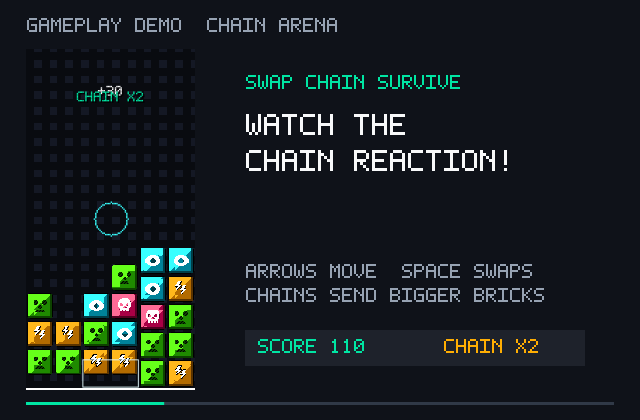
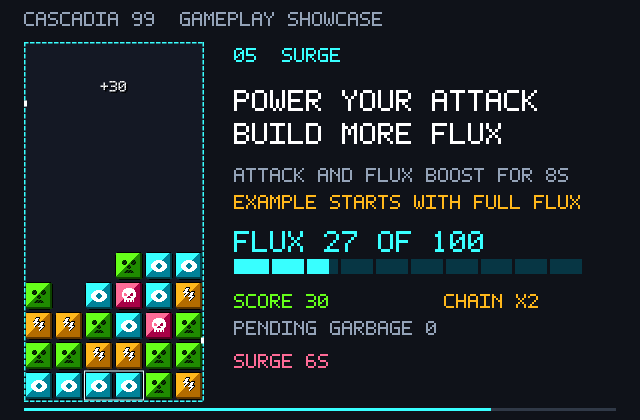
Expand homepage showcase with Flux and every Phase 1 ability

diff --git a/index.html b/index.html
@@ -4,7 +4,7 @@
 <header><a class="brand" href="/" aria-label="Cascadia 99 home"><svg xmlns="http://www.w3.org/2000/svg" viewBox="0 0 59 7" class="pixel-wordmark" aria-hidden="true" shape-rendering="crispEdges"><path fill="currentColor" d="M1 0h1v1h-1zM2 0h1v1h-1zM3 0h1v1h-1zM4 0h1v1h-1zM0 1h1v1h-1zM1 1h1v1h-1zM0 2h1v1h-1zM1 2h1v1h-1zM0 3h1v1h-1zM1 3h1v1h-1zM0 4h1v1h-1zM1 4h1v1h-1zM0 5h1v1h-1zM1 5h1v1h-1zM1 6h1v1h-1zM2 6h1v1h-1zM3 6h1v1h-1zM4 6h1v1h-1zM7 0h1v1h-1zM8 0h1v1h-1zM9 0h1v1h-1zM6 1h1v1h-1zM7 1h1v1h-1zM9 1h1v1h-1zM10 1h1v1h-1zM6 2h1v1h-1zM7 2h1v1h-1zM9 2h1v1h-1zM10 2h1v1h-1zM6 3h1v1h-1zM7 3h1v1h-1zM8 3h1v1h-1zM9 3h1v1h-1zM10 3h1v1h-1zM6 4h1v1h-1zM7 4h1v1h-1zM9 4h1v1h-1zM10 4h1v1h-1zM6 5h1v1h-1zM7 5h1v1h-1zM9 5h1v1h-1zM10 5h1v1h-1zM6 6h1v1h-1zM7 6h1v1h-1zM9 6h1v1h-1zM10 6h1v1h-1zM13 0h1v1h-1zM14 0h1v1h-1zM15 0h1v1h-1zM16 0h1v1h-1zM12 1h1v1h-1zM13 1h1v1h-1zM12 2h1v1h-1zM13 2h1v1h-1zM13 3h1v1h-1zM14 3h1v1h-1zM15 3h1v1h-1zM15 4h1v1h-1zM16 4h1v1h-1zM15 5h1v1h-1zM16 5h1v1h-1zM12 6h1v1h-1zM13 6h1v1h-1zM14 6h1v1h-1zM15 6h1v1h-1zM19 0h1v1h-1zM20 0h1v1h-1zM21 0h1v1h-1zM22 0h1v1h-1zM18 1h1v1h-1zM19 1h1v1h-1zM18 2h1v1h-1zM19 2h1v1h-1zM18 3h1v1h-1zM19 3h1v1h-1zM18 4h1v1h-1zM19 4h1v1h-1zM18 5h1v1h-1zM19 5h1v1h-1zM19 6h1v1h-1zM20 6h1v1h-1zM21 6h1v1h-1zM22 6h1v1h-1zM25 0h1v1h-1zM26 0h1v1h-1zM27 0h1v1h-1zM24 1h1v1h-1zM25 1h1v1h-1zM27 1h1v1h-1zM28 1h1v1h-1zM24 2h1v1h-1zM25 2h1v1h-1zM27 2h1v1h-1zM28 2h1v1h-1zM24 3h1v1h-1zM25 3h1v1h-1zM26 3h1v1h-1zM27 3h1v1h-1zM28 3h1v1h-1zM24 4h1v1h-1zM25 4h1v1h-1zM27 4h1v1h-1zM28 4h1v1h-1zM24 5h1v1h-1zM25 5h1v1h-1zM27 5h1v1h-1zM28 5h1v1h-1zM24 6h1v1h-1zM25 6h1v1h-1zM27 6h1v1h-1zM28 6h1v1h-1zM30 0h1v1h-1zM31 0h1v1h-1zM32 0h1v1h-1zM33 0h1v1h-1zM30 1h1v1h-1zM31 1h1v1h-1zM33 1h1v1h-1zM34 1h1v1h-1zM30 2h1v1h-1zM31 2h1v1h-1zM33 2h1v1h-1zM34 2h1v1h-1zM30 3h1v1h-1zM31 3h1v1h-1zM33 3h1v1h-1zM34 3h1v1h-1zM30 4h1v1h-1zM31 4h1v1h-1zM33 4h1v1h-1zM34 4h1v1h-1zM30 5h1v1h-1zM31 5h1v1h-1zM33 5h1v1h-1zM34 5h1v1h-1zM30 6h1v1h-1zM31 6h1v1h-1zM32 6h1v1h-1zM33 6h1v1h-1zM36 0h1v1h-1zM37 0h1v1h-1zM38 0h1v1h-1zM37 1h1v1h-1zM37 2h1v1h-1zM37 3h1v1h-1zM37 4h1v1h-1zM37 5h1v1h-1zM36 6h1v1h-1zM37 6h1v1h-1zM38 6h1v1h-1zM41 0h1v1h-1zM42 0h1v1h-1zM43 0h1v1h-1zM40 1h1v1h-1zM41 1h1v1h-1zM43 1h1v1h-1zM44 1h1v1h-1zM40 2h1v1h-1zM41 2h1v1h-1zM43 2h1v1h-1zM44 2h1v1h-1zM40 3h1v1h-1zM41 3h1v1h-1zM42 3h1v1h-1zM43 3h1v1h-1zM44 3h1v1h-1zM40 4h1v1h-1zM41 4h1v1h-1zM43 4h1v1h-1zM44 4h1v1h-1zM40 5h1v1h-1zM41 5h1v1h-1zM43 5h1v1h-1zM44 5h1v1h-1zM40 6h1v1h-1zM41 6h1v1h-1zM43 6h1v1h-1zM44 6h1v1h-1z"/><path class="logo-accent" fill="#c9ef70" d="M49 0h1v1h-1zM50 0h1v1h-1zM51 0h1v1h-1zM48 1h1v1h-1zM49 1h1v1h-1zM51 1h1v1h-1zM52 1h1v1h-1zM48 2h1v1h-1zM49 2h1v1h-1zM51 2h1v1h-1zM52 2h1v1h-1zM49 3h1v1h-1zM50 3h1v1h-1zM51 3h1v1h-1zM52 3h1v1h-1zM51 4h1v1h-1zM52 4h1v1h-1zM51 5h1v1h-1zM52 5h1v1h-1zM48 6h1v1h-1zM49 6h1v1h-1zM50 6h1v1h-1zM51 6h1v1h-1zM55 0h1v1h-1zM56 0h1v1h-1zM57 0h1v1h-1zM54 1h1v1h-1zM55 1h1v1h-1zM57 1h1v1h-1zM58 1h1v1h-1zM54 2h1v1h-1zM55 2h1v1h-1zM57 2h1v1h-1zM58 2h1v1h-1zM55 3h1v1h-1zM56 3h1v1h-1zM57 3h1v1h-1zM58 3h1v1h-1zM57 4h1v1h-1zM58 4h1v1h-1zM57 5h1v1h-1zM58 5h1v1h-1zM54 6h1v1h-1zM55 6h1v1h-1zM56 6h1v1h-1zM57 6h1v1h-1z"/></svg></a><div class="header-right"><button id="server-settings" class="quiet" hidden>Game server</button><span id="connection" class="connection">Connecting…</span><button id="sound" class="quiet" aria-pressed="true">Sound on</button><button id="music" class="quiet" aria-pressed="true">Music on</button><button id="theme" class="quiet" aria-label="Switch to light mode" aria-pressed="false">☀ Light</button><button id="help" class="quiet">How to play</button></div></header><div class="customization-bar" aria-label="Game appearance and soundtrack"><div><label for="palette">PALETTE</label><select id="palette" aria-label="Color palette"></select></div><div><label for="track">SOUNDTRACK</label><select id="track" aria-label="Music track"></select></div></div>
 <main>
 <section id="entry" class="entry">
-<div class="intro"><div class="eyebrow">MULTIPLAYER / CHAIN REACTION ARENA</div><h1>SWAP. CHAIN.<br><em>OUTLAST EVERYONE.</em></h1><p>Match panels. Send garbage. Be the last board standing.<br>Battle CPUs solo or invite friends with a room code.</p><figure class="gameplay-demo"><picture><source media="(prefers-reduced-motion: reduce)" srcset="/demo/gameplay.png?v=9"><img src="/demo/gameplay.gif?v=9" alt="Gameplay demo: a panel swap creates a chain, then an incoming garbage brick breaks into panels." width="640" height="420" decoding="async"></picture><figcaption>REAL GAMEPLAY <span>Swap → chain → comeback</span></figcaption></figure><button id="preview-music" class="quiet music-preview" aria-pressed="false">♫ Hear the soundtrack</button><div class="intro-foot"><span>01 / SWAP</span><span>02 / CHAIN</span><span>03 / SURVIVE</span></div></div>
+<div class="intro"><div class="eyebrow">MULTIPLAYER / CHAIN REACTION ARENA</div><h1>SWAP. CHAIN.<br><em>OUTLAST EVERYONE.</em></h1><p>Match panels. Send garbage. Be the last board standing.<br>Battle CPUs solo or invite friends with a room code.</p><figure class="gameplay-demo"><picture><source media="(prefers-reduced-motion: reduce)" srcset="/demo/gameplay.png?v=10"><img id="homepage-demo" src="/demo/gameplay.gif?v=10" alt="Gameplay showcase: chains charge Flux, garbage breaks into panels, and Pulse, Shift, Surge, and Overdrive activate with live resource counters." width="640" height="420" decoding="async"></picture><figcaption>GAMEPLAY <span>Chains · Flux · abilities</span><button id="demo-pause" class="quiet" type="button" aria-pressed="false">Pause</button></figcaption></figure><button id="preview-music" class="quiet music-preview" aria-pressed="false">♫ Hear the soundtrack</button><div class="intro-foot"><span>01 / SWAP</span><span>02 / CHAIN</span><span>03 / SURVIVE</span></div></div>
 <div class="entry-card"><div class="eyebrow">PLAYER SELECT</div><h2>READY, PLAYER?</h2><div class="entry-name"><label for="name">Display name</label><input id="name" maxlength="18" placeholder="Enter your name" autocomplete="nickname"></div><div class="match-options"><div><label for="quick-mode">Match mode</label><select id="quick-mode"><option value="battle">Battle Royale · up to 99</option><option value="duel">2P VS · Duel</option><option value="quad">4P VS · Free-for-all</option><option value="teams">2v2 · Teams</option></select></div><div><label for="quick-rules">Rules</label><select id="quick-rules"><option value="classic">Classic · steady</option><option value="rush">Rush · +60%</option></select></div></div><div class="cpu-quick-settings"><div><label for="quick-count">CPU opponents</label><select id="quick-count"><option value="1">1 CPU · Duel</option><option value="9" selected>9 CPUs · Skirmish</option><option value="24">24 CPUs · Battle</option><option value="98">98 CPUs · Full field</option></select></div><div><label for="quick-difficulty">Difficulty</label><select id="quick-difficulty"><option value="easy">Easy</option><option value="normal" selected>Normal</option><option value="hard">Hard</option></select></div></div><div class="entry-actions"><button id="play-cpu" class="primary">Play CPUs <span>▶</span></button><button id="create" class="secondary create-room">Create room <span>↗</span></button></div><div class="divider"><span>or join your friends</span></div><form id="join-form"><label for="code">Room code</label><div class="join-row"><input id="code" minlength="6" maxlength="6" placeholder="A1B2C3" autocapitalize="characters" autocomplete="off" required pattern="[A-Za-z0-9]{6}"><button class="secondary" type="submit">Join →</button></div></form><p class="card-note" id="mode-note">No accounts. Play CPUs solo or invite your friends.</p><div class="personal-records" aria-label="Your personal records"><span>BEST <b id="record-score">0</b></span><span>CHAIN <b id="record-chain">0×</b></span><span>WINS <b id="record-wins">0</b></span></div><p id="entry-error" class="error" role="alert"></p></div>
 </section>
 <section id="lobby" hidden><div class="lobby-head"><div><div class="eyebrow">THE ROOM IS OPEN</div><h1>Gather your rivals.</h1><p>Share this code. Everyone joins from this same game address.</p></div><button id="leave-lobby" class="quiet">Leave room ↗</button></div><div class="lobby-layout"><div class="room-card"><div class="eyebrow">ROOM CODE</div><button id="copy-code" title="Copy room code"><span id="room-code"></span><small id="copy-label">Click to copy</small></button><div id="room-settings" class="room-settings"><label for="room-mode">Match mode</label><select id="room-mode"><option value="battle">Battle Royale · up to 99</option><option value="duel">2P VS · Duel</option><option value="quad">4P VS · Free-for-all</option><option value="teams">2v2 · Teams</option></select><label for="room-rules">Rules</label><select id="room-rules"><option value="classic">Classic · steady</option><option value="rush">Rush · +60%</option></select><button id="apply-settings" class="secondary">Update mode &amp; rules</button></div><div id="bot-settings" class="bot-settings"><div class="cpu-quick-settings"><div><label for="bot-count">CPU opponents</label><input id="bot-count" type="number" min="0" max="98" value="0"></div><div><label for="bot-difficulty">Difficulty</label><select id="bot-difficulty"><option value="easy">Easy</option><option value="normal" selected>Normal</option><option value="hard">Hard</option></select></div></div><button id="apply-bots" class="secondary">Update CPUs</button></div><button id="start" class="primary">Start battle →</button><p id="lobby-note"></p><div id="share-address" class="share-address"></div></div><div class="players-card"><div class="section-title"><h2>In the lobby</h2><span id="lobby-count">0 / 99</span></div><div id="players-list"></div><p id="lobby-error" class="error" role="alert"></p></div></div></section>

diff --git a/style.css b/style.css
@@ -256,3 +256,6 @@ body[data-flashing="reduced"] #flux-fill{animation:none}
 .tutorial-gallery button{justify-self:start}.tutorial-gallery p{font-size:14px;line-height:1.5;margin:0}
 
 dialog::backdrop{backdrop-filter:none;background:#000c}
+
+.gameplay-demo #demo-pause{width:auto;padding:0 6px;min-height:20px;font-size:14px;line-height:18px;flex-shrink:0}
+.gameplay-demo figcaption{align-items:center}

diff --git a/PROJECT_STATUS.md b/PROJECT_STATUS.md
@@ -2,6 +2,13 @@
 
 Updated 2026-10-06. This document records the current implementation and work completed during the development conversation. The working browser game remains available, and development has now started on a native Godot 4 client. Package version is 0.3.0; it is a development snapshot, not a published release.
 
+## Expanded homepage showcase (2026-10-06)
+
+- Replaced the short homepage loop with a **33-second, 825-frame, 25 FPS** showcase: Flux-earning chains, slab breaks/conversion, Pulse, Shift, Surge, and Overdrive. Added a larger board, live segmented Flux gauge, score/chain/pending counters, ability costs, full-charge hold and buff timers.
+- Footage uses the same authoritative engine examples as native How to Play; the higher capture rate does not change simulation or balance. Ability chapters clearly label their full-Flux starting examples. Godot retains these same six mechanics in its existing tutorial viewer; it has a native title menu rather than a website homepage.
+- Added homepage pause/play and matching stills for reduced motion or reduced flashing, refreshed asset URLs/alt text, and reproducible `npm run demo:render`. The GIF remains 640×420 (~2.4MB), preserving the responsive homepage layout. `demo/showcase.json` records its chapters and timing.
+- Verification: **76 JavaScript tests passed**, including gameplay coverage/capture-rate parity/assets; browser responsive playback/pause/reduced-effects and native/web tutorial checks passed. No gameplay, authority, audio, or Godot rules changed.
+
 ## How to Play — animated tutorials (2026-10-06)
 
 - Added ten selectable demonstrations to both web Help and native How to Play: 2P, 4P, 2v2, 99-seat CPU Battle Royale, swaps/chains, garbage fracture/conversion, Pulse, Shift, Surge, and Overdrive.
@@ -58,7 +65,7 @@ Updated 2026-10-06. This document records the current implementation and work co
 - Current four tiles: Skull, Cyber-Eye, Radiation, and Twin Bolts. Generation and garbage releases use only these four types. Hard palette steps, pixel glyphs, 14% stepped corners, black frames, and exact 25%/50%/75% Bayer coverage replace smooth surface gradients and neon blending.
 - Added rigid falling garbage slabs spanning 3–6 columns and 1–3 rows, recessed column notches, cast-iron dither bands, chunky hazard stripes, and a two-frame CPU core glow. Adjacent clears trigger a dither sweep and bottom-to-top conversion into regular tiles. Slabs fall as connected units.
 - Added swap/fall/drop animations, match flashes, outward particles, attack projectiles, impact shake, combo/chain badges, and localized upper-board danger warnings. Reduced-motion settings suppress/freeze motion and flashes.
-- Regenerated the homepage gameplay demo from the actual engine/renderer: 400 frames, 50 FPS, eight seconds, 256-color palette without extra encoding dithering. It demonstrates a chain and slab conversion. A matching still serves reduced-motion users. Only one logo appears on the homepage.
+- Regenerated the homepage gameplay demo from the actual engine/renderer: 825 frames, 25 FPS, 33 seconds, 256-color palette without extra encoding dithering. It demonstrates Flux rewards, chains, slab conversion, and all four abilities. A matching still serves reduced-motion users. Only one logo appears on the homepage.
 - Added an 80s arcade website shell: bundled VT323 pixel font and license, cyan/magenta accents, square cabinet frames, hard offset shadows, and a static grid background. No external font download is needed at runtime.
 - Added independent light/dark appearance and five immediate palette themes: Neon Arcade, Midnight Violet, Tokyo Night, Amber Terminal, Polar Frost. Themes update the site, active tiles, rival boards, board well, particles, and slab surfaces; preferences persist locally. The prerecorded GIF retains its default Neon Arcade colors.
 - Made the match view fit the window without page scrolling, including short desktop windows and small phones. Small-match opponent boards and the Pulse control remain visible.

diff --git a/RETRO-VFX.md b/RETRO-VFX.md
@@ -57,3 +57,5 @@ Both Help screens now offer ten recorded demonstrations: all four modes, swaps/c
 Web selects one GIF at a time. Godot plays the same frames using a nearest-filtered AtlasTexture rather than relying on unsupported GIF playback. Both have pause and matching still frames; reduced motion or reduced flashing forces stills because flashes are baked into GIF footage. No tutorial audio plays. Native Help scrolls within the existing menu and retains keyboard/controller navigation. Prerecorded clips retain their Neon Arcade palette rather than recoloring with live settings.
 
 Run `npm run smoke:tutorials` for actual Help/playback/accessibility/layout and exact still-pixel parity checks. `npm test` also checks shared metadata, all assets, authoritative mechanic footage, and static asset routing. Regenerate recordings/metadata when their visuals, rule explanations, costs, or durations change. Raw recordings are local ignored artifacts, not a production replay system.
+
+The homepage now curates those six mechanics into a 33-second, 25 FPS showcase with live Flux/cost/hold/buff/pending counters and pause/reduced-effects stills. `npm run demo:render` reproduces it; `demo/showcase.json` records its timeline. The 50Hz engine source is identical to native tutorials at shared capture timestamps. Godot has no website homepage; the equivalent six demonstrations remain available in native How to Play.

diff --git a/AGENTS.md b/AGENTS.md
@@ -28,3 +28,5 @@
 - Changes to rules, costs, durations, controls, or relevant visuals must also update How to Play text and re-render affected tutorial footage/metadata. Do not let historical Pulse “100%” instructions return; Phase 1 Pulse costs 35 Flux.
 - Load/play one selected clip at a time, stop animation when Help closes, provide pause, and use static frames for reduced motion OR reduced flashing (GIF flashes are baked into the recording). Keep pixel filtering and readable captions. Modes with 99 seats are recorded with CPUs and must be labelled accurately.
 - `npm run smoke:tutorials` checks both real help viewers, topic switching, pause, reduced effects, mobile layout, and exact native/web still pixels. `npm test` validates metadata, assets, real mechanic events/costs, and explicit asset routes. Raw recordings/frame captures remain ignored in `.web-smoke/`.
+
+- The homepage showcase uses `scripts/homepage-showcase.mjs` and the same engine recording source at 25 FPS. Keep its Flux/cost/hold/buff counters and chapter explanations current; regenerate with `npm run demo:render`. Preserve pause/play and static reduced-motion/flashing fallbacks. Its web-only placement corresponds to the same six mechanics already present in native How to Play.

diff --git a/CHANGELOG.md b/CHANGELOG.md
@@ -1,5 +1,10 @@
 # Changelog
 
+## 2026-10-06 — Expanded homepage gameplay showcase
+
+- Expanded the homepage GIF from eight to 33 seconds, showing Flux generation, chains, slab conversion, Pulse, Shift, Surge, and Overdrive with live meters, costs, hold/countdown and garbage counters.
+- Reused the authoritative footage source shared with native tutorials, added explicit example labels, pause/play and reduced-motion/flashing stills, and refreshed accessible text/cache URLs. Passed 76 JavaScript tests plus responsive browser playback/reduced-effects and native/web tutorial checks. Added capture-rate parity and gameplay-coverage tests. No gameplay or balancing changes.
+
 ## 2026-10-06 — Animated How to Play tutorials
 
 - Added ten selectable pixel-art demonstrations in both web and Godot Help, covering every mode, chains, garbage, and all Flux abilities. Recorded mode footage from real server/CPU rooms and mechanics from the existing authoritative engine.

diff --git a/VISUAL-DESIGN.md b/VISUAL-DESIGN.md
@@ -15,7 +15,7 @@ Cast-iron slabs span 3–6 columns and 1–3 rows. The first three interior pixe
 
 Empty cells use exactly 25% #141824 stipple against #090B10. The selection frame stays unfilled and crisp. Upper-board warnings blink in two hard states; reduced motion freezes warnings and CPU halos. Match brightness and existing gameplay animations remain.
 
-The homepage has one pixel wordmark and an updated 50 FPS GIF; reduced motion uses the matching still.
+The homepage has one pixel wordmark and an 33-second, 25 FPS gameplay showcase GIF; reduced motion uses the matching still.
 
 The website shell extends the retro treatment with locally bundled VT323 pixel typography, cyan/magenta accents, square cabinet frames, hard offset shadows, and a static grid background. Small gameplay labels retain monospace type for readability. Light mode uses cream/purple tones. See `fonts/OFL.txt` for font attribution and redistribution terms.
 
